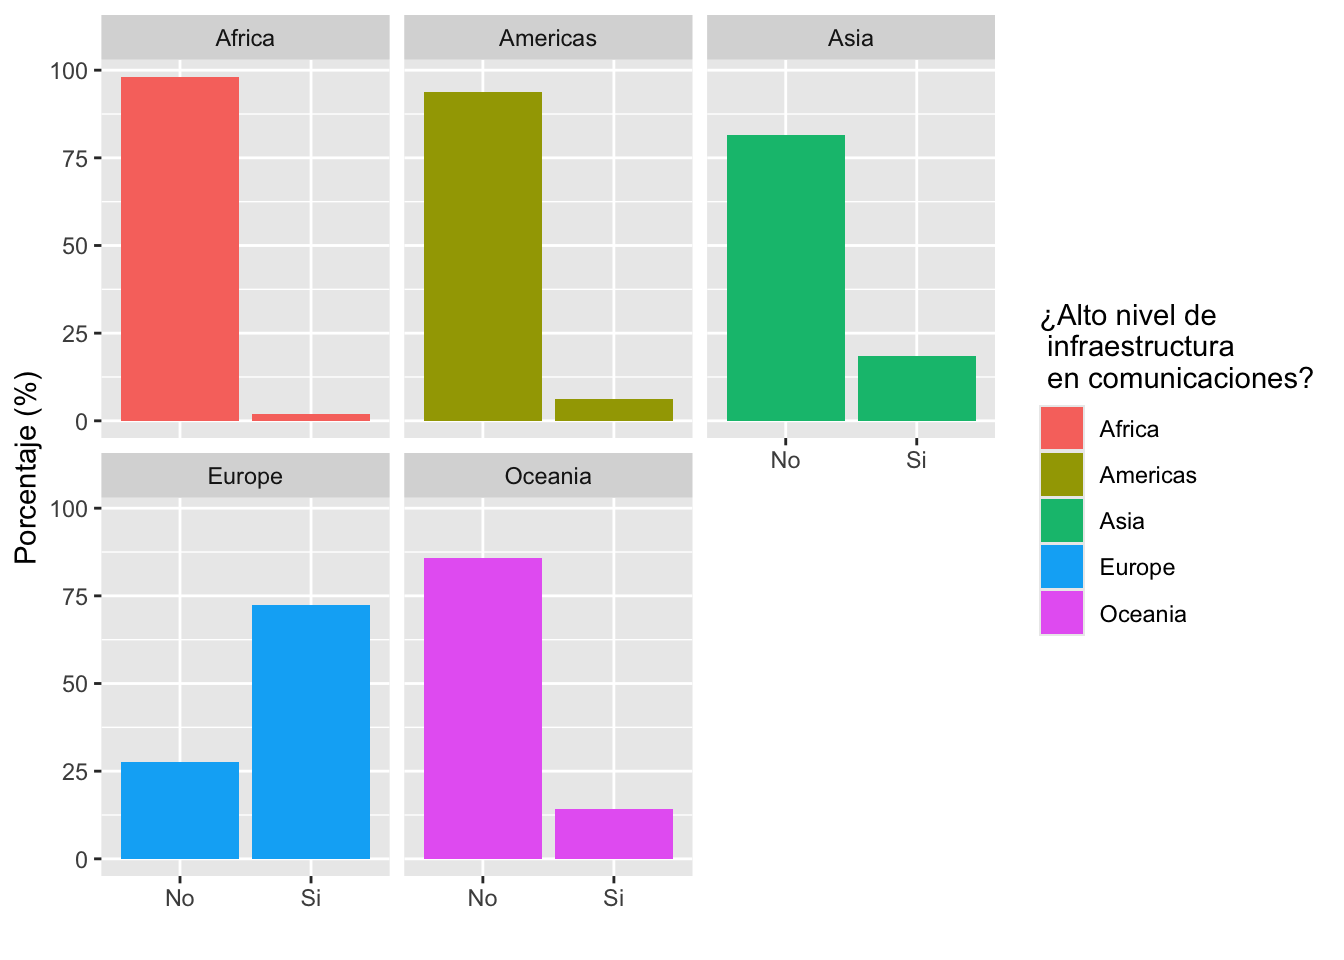
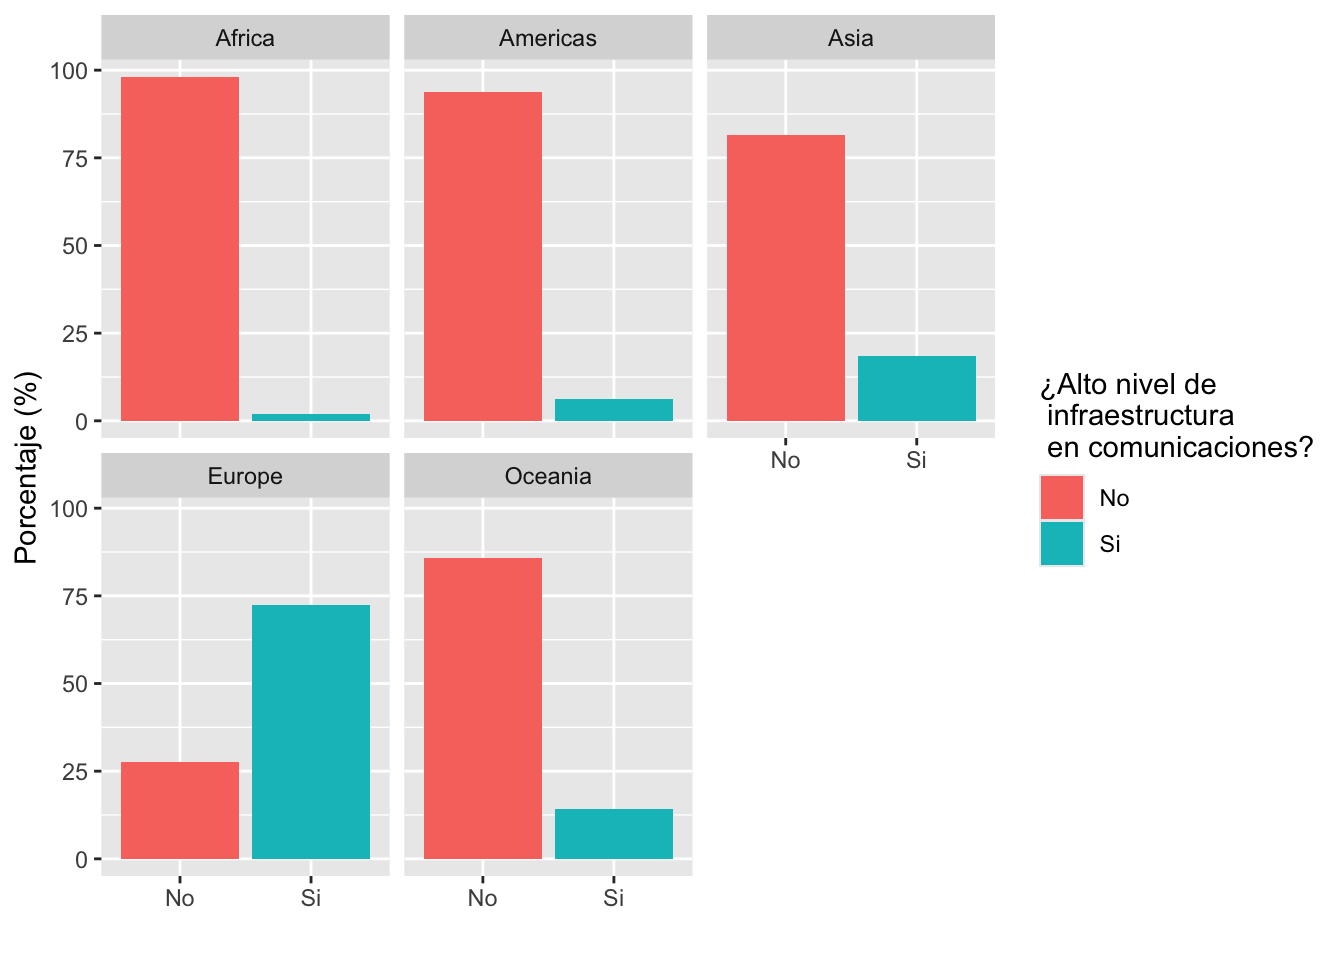
pd3_v2

diff --git a/pd3.html b/pd3.html
@@ -437,8 +437,8 @@ library(rio)
 data=import(&quot;egov2022.xlsx&quot;) </code></pre>
 <table>
 <colgroup>
-<col width="33%" />
-<col width="66%" />
+<col width="34%" />
+<col width="65%" />
 </colgroup>
 <thead>
 <tr class="header">
@@ -572,7 +572,7 @@ grafico2</code></pre>
 ## 10 Oceania  Si                 2      14.3</code></pre>
 <p>La única región en la que la mayoría de los países cuenta con un
 nivel alto de infraestructura en telecomunicaciones alto es Europa.</p>
-<pre class="r"><code>ggplot(grafico2, aes(x=Alto_teleinfra, y= Porcentaje,fill=Region))+
+<pre class="r"><code>ggplot(grafico2, aes(x=Alto_teleinfra, y= Porcentaje,fill=Alto_teleinfra))+
   geom_bar(stat = &quot;identity&quot;)+ 
   facet_wrap(~Region)+
   xlab(&quot;&quot;)+
